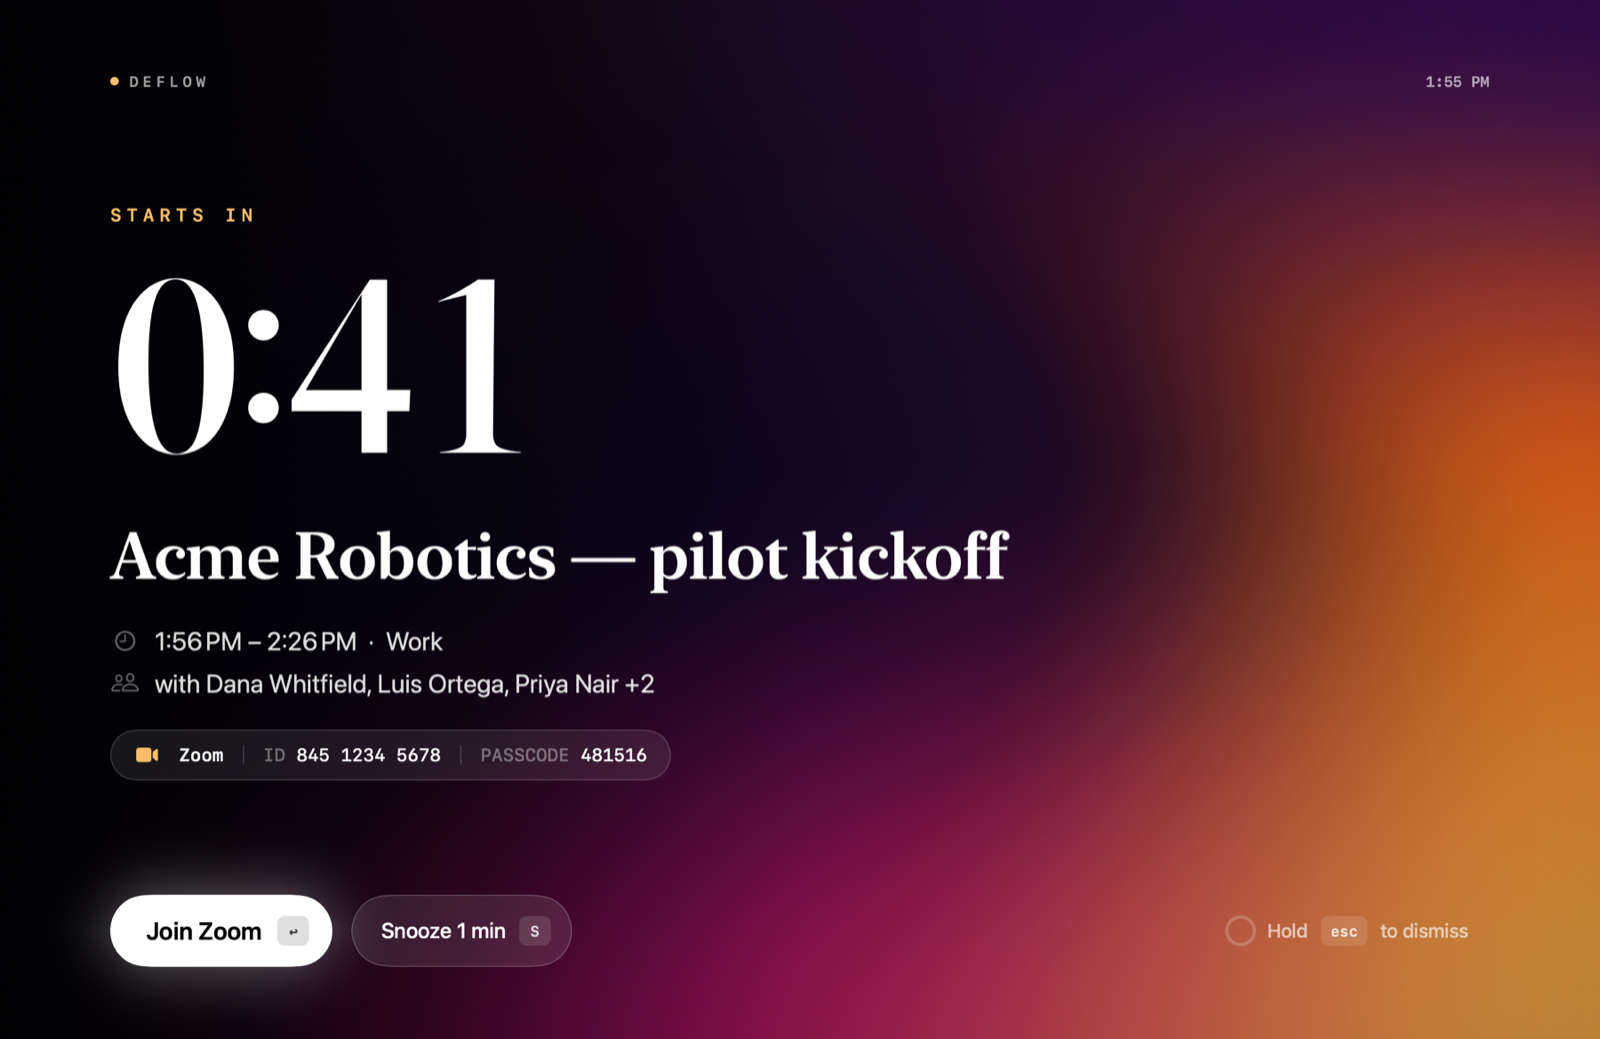
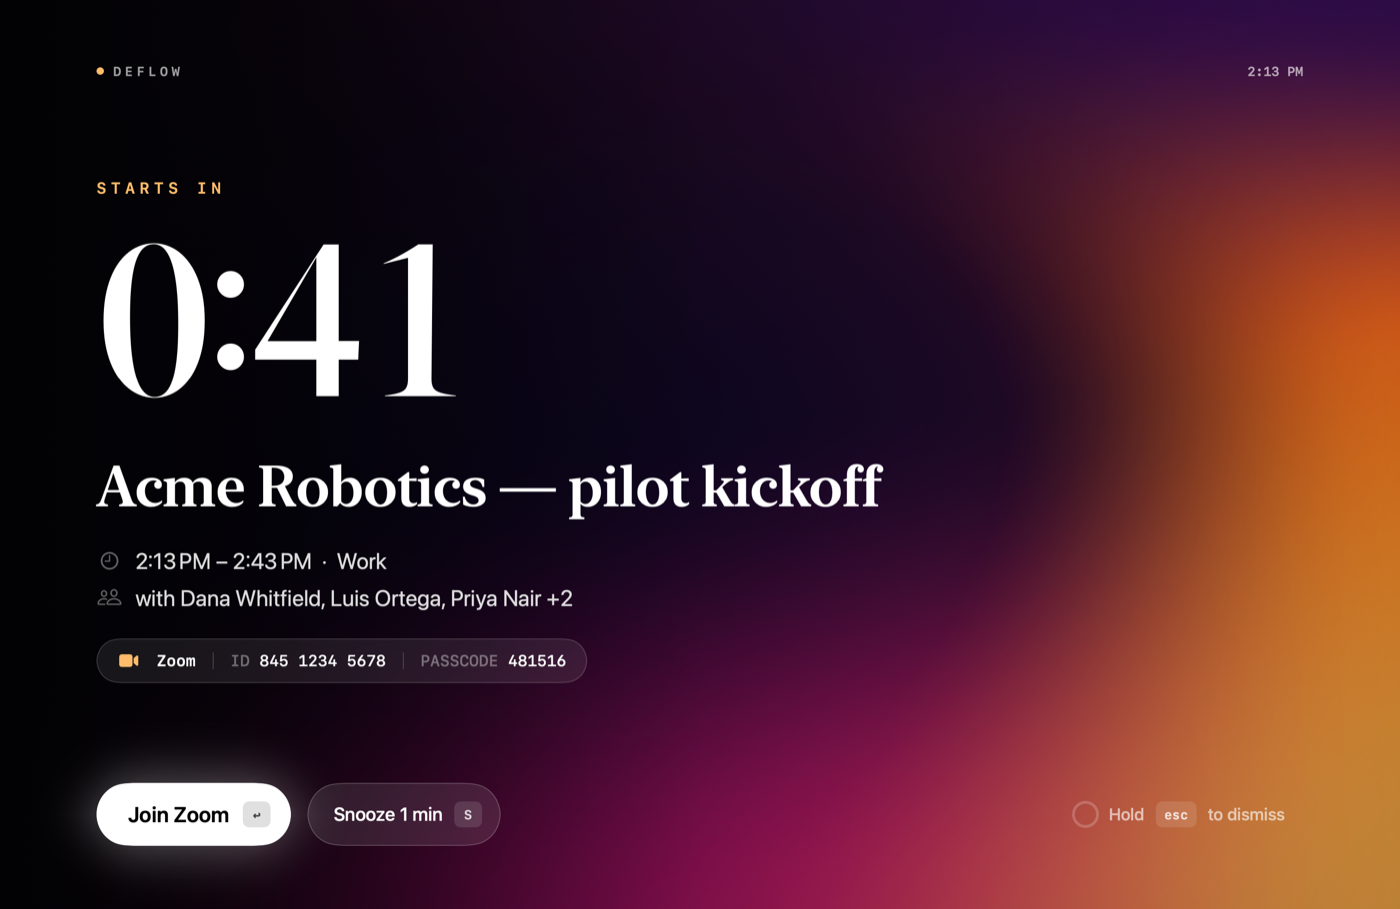
Polish the repo: MIT license, animated README, CI (#1)
* Add MIT license

* Polish the repo: animated README, CI, frame renderer

- README: download button, badges, animated takeover demo, before/after
  screenshots, menu walkthrough, FAQ.
- CI workflow running swift build and swift test on macOS 15.
- --snapshot-frames renders the takeover sequence used for the README GIF.

---------

diff --git a/Sources/Deflow/TakeoverView.swift b/Sources/Deflow/TakeoverView.swift
@@ -22,7 +22,7 @@ struct TakeoverView: View {
             GeometryReader { geo in
                 let s = max(0.6, min(geo.size.width / 1512, 1.7))
                 ZStack {
-                    AuroraBackground(late: late)
+                    AuroraBackground(late: late, time: model.fixedNow?.timeIntervalSinceReferenceDate.truncatingRemainder(dividingBy: 3600), heat: model.fixedHeat)
                     LinearGradient(colors: [.black.opacity(0.62), .black.opacity(0.15), .clear],
                                    startPoint: .leading, endPoint: .trailing)
                     VStack(alignment: .leading, spacing: 0) {
@@ -242,10 +242,13 @@ private struct Keycap: View {
 /// Slow-drifting ember mesh: dark where the text sits, heat pooling on the right. Runs hotter once late.
 struct AuroraBackground: View {
     var late: Bool
+    /// Fixed animation clock and warmth (0 calm … 1 late) for frame-by-frame renders.
+    var time: Double?
+    var heat: Double?
 
     var body: some View {
         TimelineView(.animation(minimumInterval: 1.0 / 30)) { ctx in
-            let t = Float(ctx.date.timeIntervalSinceReferenceDate.truncatingRemainder(dividingBy: 3600))
+            let t = Float(time ?? ctx.date.timeIntervalSinceReferenceDate.truncatingRemainder(dividingBy: 3600))
             MeshGradient(width: 3, height: 3, points: [
                 [0, 0], [0.5 + 0.10 * sin(t * 0.31), 0], [1, 0],
                 [0, 0.5 + 0.08 * cos(t * 0.23)],
@@ -261,12 +264,16 @@ struct AuroraBackground: View {
     }
 
     private var palette: [Color] {
+        let h = heat ?? (late ? 1 : 0)
+        func mix(_ a: (Double, Double, Double), _ b: (Double, Double, Double)) -> Color {
+            Color(red: a.0 + (b.0 - a.0) * h, green: a.1 + (b.1 - a.1) * h, blue: a.2 + (b.2 - a.2) * h)
+        }
         let ink = Color(red: 0.03, green: 0.02, blue: 0.05)
         let plum = Color(red: 0.13, green: 0.04, blue: 0.16)
         let violet = Color(red: 0.24, green: 0.06, blue: 0.36)
-        let magenta = late ? Color(red: 0.82, green: 0.08, blue: 0.22) : Color(red: 0.70, green: 0.10, blue: 0.38)
-        let ember = late ? Color(red: 1.0, green: 0.24, blue: 0.10) : Color(red: 1.0, green: 0.45, blue: 0.12)
-        let glow = late ? Color(red: 1.0, green: 0.48, blue: 0.20) : Color(red: 1.0, green: 0.68, blue: 0.28)
+        let magenta = mix((0.70, 0.10, 0.38), (0.82, 0.08, 0.22))
+        let ember = mix((1.0, 0.45, 0.12), (1.0, 0.24, 0.10))
+        let glow = mix((1.0, 0.68, 0.28), (1.0, 0.48, 0.20))
         return [
             ink, plum, violet,
             ink, plum, ember,

diff --git a/Sources/Deflow/DeflowApp.swift b/Sources/Deflow/DeflowApp.swift
@@ -59,6 +59,10 @@ final class AppDelegate: NSObject, NSApplicationDelegate {
         if let i = args.firstIndex(of: "--render-dmg-bg"), args.indices.contains(i + 1) {
             Self.write(DMGBackgroundView(), to: args[i + 1], scale: args.contains("--2x") ? 2 : 1)
         }
+        // `--snapshot-frames dir` renders an 8-second takeover sequence (for the README animation).
+        if let i = args.firstIndex(of: "--snapshot-frames"), args.indices.contains(i + 1) {
+            Self.frames(to: args[i + 1])
+        }
         // `--snapshot-menu out.png` renders the menu panel with sample data and exits.
         if let i = args.firstIndex(of: "--snapshot-menu"), args.indices.contains(i + 1) {
             let monitor = CalendarMonitor()
@@ -75,6 +79,28 @@ final class AppDelegate: NSObject, NSApplicationDelegate {
         model.animatesIn = false
         model.fixedNow = Date()
         write(TakeoverView(model: model).frame(width: 1512, height: 982), to: path)
+    }
+
+    /// 10 fps from 4s before the start to 4s after, warming up as the meeting begins.
+    @MainActor
+    private static func frames(to dir: String) -> Never {
+        let base = Date()
+        let model = TakeoverModel(event: .demo(startingIn: 4.999))
+        model.animatesIn = false
+        for i in 0..<80 {
+            let now = base.addingTimeInterval(Double(i) / 10)
+            let sinceStart = now.timeIntervalSince(model.event.start)
+            let x = min(max((sinceStart + 0.2) / 1.6, 0), 1)
+            model.fixedNow = now
+            model.fixedHeat = x * x * (3 - 2 * x)
+            let renderer = ImageRenderer(content: TakeoverView(model: model).frame(width: 1200, height: 750))
+            renderer.scale = 1
+            guard let tiff = renderer.nsImage?.tiffRepresentation,
+                  let png = NSBitmapImageRep(data: tiff)?.representation(using: .png, properties: [:]),
+                  (try? png.write(to: URL(fileURLWithPath: dir).appendingPathComponent(String(format: "f%03d.png", i)))) != nil
+            else { exit(1) }
+        }
+        exit(0)
     }
 
     @MainActor

diff --git a/Sources/Deflow/TakeoverController.swift b/Sources/Deflow/TakeoverController.swift
@@ -22,6 +22,7 @@ final class TakeoverModel: ObservableObject {
     /// Off for static renders (snapshots), where onAppear animations never run.
     var animatesIn = true
     var fixedNow: Date?
+    var fixedHeat: Double?
 
     var onPrimary: () -> Void = {}
     var onSnooze: () -> Void = {}

diff --git a/README.md b/README.md
@@ -1,54 +1,131 @@
-<p align="center"><img src="docs/icon.png" width="128" alt="Deflow icon"></p>
-<h1 align="center">Deflow</h1>
-<p align="center"><b>Never miss the meeting.</b><br>
-A macOS menu bar app that takes over your whole screen when a Google Calendar meeting starts.</p>
+<p align="center"><img src="docs/icon.png" width="120" alt="Deflow icon"></p>
 
-![Deflow taking over the screen 41 seconds before a meeting](docs/takeover.png)
+<h1 align="center">Deflow</h1>
+
+<p align="center">
+  <b>Never miss the meeting.</b><br>
+  A macOS menu bar app that takes over your entire screen when a Google Calendar meeting starts.
+</p>
+
+<p align="center">
+  <a href="https://github.com/ArchAstro/deflow/releases/latest/download/Deflow.dmg"><img src="https://img.shields.io/badge/Download_for_macOS-Deflow.dmg-ff7a1f?style=for-the-badge&logo=apple&logoColor=white" alt="Download Deflow for macOS"></a>
+</p>
+
+<p align="center">
+  <a href="https://github.com/ArchAstro/deflow/releases/latest"><img src="https://img.shields.io/github/v/release/ArchAstro/deflow?color=b21a5c&label=release" alt="Latest release"></a>
+  <a href="https://github.com/ArchAstro/deflow/actions/workflows/ci.yml"><img src="https://github.com/ArchAstro/deflow/actions/workflows/ci.yml/badge.svg" alt="CI"></a>
+  <img src="https://img.shields.io/badge/macOS-15%2B-1d1d1f" alt="macOS 15 or later">
+  <img src="https://img.shields.io/badge/Apple-notarized-1d1d1f?logo=apple" alt="Notarized by Apple">
+  <a href="LICENSE"><img src="https://img.shields.io/badge/license-MIT-1d1d1f" alt="MIT license"></a>
+</p>
+
+<p align="center"><img src="docs/takeover.gif" width="900" alt="Deflow counting down to a meeting, then turning red once it has started"></p>
 
 ## Why
 
-Desktop notifications are easy to miss when you are deep in flow. Deflow is not: at meeting time it
-covers every display, shows the call details, and stays there until you join, snooze or deliberately
-dismiss it.
+Notifications are easy to miss when you are deep in flow. A banner slides in, you glance past it, and
+twenty minutes later a customer is sitting alone in a Zoom room.
 
-## What it does
+Deflow cannot be glanced past. At meeting time it covers every display and stays there until you join,
+snooze, or deliberately dismiss it.
 
-1. **Watches Google Calendar** (read-only) for the next 24 hours of meetings on calendars you own.
-2. **Takes over every display** 1 minute before the start (0, 2 or 5 minutes are options), above
-   full-screen apps, with the Dock and app switcher disabled.
-3. **Shows what you need**: countdown, title, time, attendees, and the Zoom / Meet / Teams / Webex link
-   with meeting ID and passcode.
-4. **Gives you three ways out**:
+## How it works
 
-   | Key | Action |
+1. **It watches your Google Calendar**, read-only, for the next 24 hours.
+2. **One minute before a meeting, it takes over.** Every display, above full-screen apps, with the Dock
+   and app switcher disabled.
+3. **Everything you need is on screen**: countdown, title, time, who is on the call, and the Zoom, Meet,
+   Teams or Webex link with meeting ID and passcode.
+4. **There are only three ways out.**
+
+   | Key | What happens |
    | --- | --- |
-   | `↩` | Join the call (opens the Zoom app directly when installed) |
-   | `S` | Snooze for 1 minute |
-   | hold `esc` | Dismiss (a tap does nothing, so you cannot swat it away by reflex) |
+   | <kbd>↩</kbd> | Joins the call. Zoom opens directly in the app, with no browser hop. |
+   | <kbd>S</kbd> | Snoozes for one minute, then comes back. |
+   | hold <kbd>esc</kbd> | Dismisses. A tap does nothing, so you cannot swat it away by reflex. |
 
-5. **Gets louder when you are late**: the screen shifts from amber to red, the countdown becomes
-   "2:14 ago", and it chimes every 20 seconds.
+5. **It gets louder when you are late.**
 
-It skips all-day events, cancelled events, events you declined, and out-of-office blocks.
+| Before the meeting | After it has started |
+| --- | --- |
+| ![Amber takeover showing "Starts in 0:41"](docs/takeover.png) | ![Red takeover showing "Started 2:14 ago"](docs/takeover-late.png) |
+| Calm amber, counting down. | Red, counting up, chiming every 20 seconds. |
 
-<p align="center"><img src="docs/menu.png" width="360" alt="Deflow menu bar panel"></p>
+## The menu bar
+
+<img src="docs/menu.png" width="330" align="right" alt="Deflow menu bar panel showing the next meeting and settings">
+
+Deflow lives in the menu bar, not the Dock.
+
+- **Up next**: a countdown to your next meeting, with a one-click Join button.
+- **Next 24 hours**: the rest of your agenda at a glance.
+- **Lead time**: take over at the start, or 1, 2 or 5 minutes early.
+- **Chime**: on or off.
+- **Skip solo events**: ignore blocks that have no other people and no call link.
+- **Launch at login**: so it is always watching.
+- **Test takeover**: see exactly what a meeting will look like.
+
+When a meeting is less than an hour away, the countdown also shows right in the menu bar.
+
+<br clear="right">
 
 ## Install
 
-1. Download `Deflow.dmg` from [Releases](../../releases) and drag Deflow to Applications.
-2. Open Deflow. It lives in the menu bar, not the Dock.
-3. Click the menu bar icon, then **Sign in with Google**, and approve read-only calendar access.
-4. Click **Test takeover** to see what a meeting will look like.
+1. **[Download Deflow.dmg](https://github.com/ArchAstro/deflow/releases/latest/download/Deflow.dmg)** and
+   drag Deflow to Applications.
+2. Open Deflow, click its menu bar icon, and choose **Sign in with Google**.
+3. Approve read-only calendar access.
+4. Click **Test takeover** to try it.
 
-Requires macOS 15 or later.
+Requires macOS 15 or later. The app is signed with a Developer ID and notarized by Apple.
 
+> [!NOTE]
 > Google has not verified this app yet, so sign-in shows a "Google hasn't verified this app" screen.
-> Choose **Advanced**, then **Go to Deflow**. Deflow only requests read-only calendar access.
+> Choose **Advanced**, then **Go to Deflow**. The only permission requested is read-only calendar access.
 
 ## Privacy
 
-Deflow talks only to Google, directly from your Mac. There is no Deflow server, no analytics and no
-account. See [PRIVACY.md](PRIVACY.md).
+- Deflow talks only to Google, directly from your Mac.
+- There is no Deflow server, no account, no analytics.
+- Access is read-only: Deflow cannot create, change or delete anything.
+- The app ships no client secret; your sign-in token stays in your macOS Keychain.
+
+Full details are in [PRIVACY.md](PRIVACY.md).
+
+## Questions
+
+<details>
+<summary><b>Which events trigger a takeover?</b></summary>
+
+Timed events on calendars you own and have ticked in Google Calendar. All-day events, cancelled events,
+events you declined, out-of-office blocks and working-location entries are skipped. Calendars you only
+subscribe to, such as a coworker's, never trigger one.
+</details>
+
+<details>
+<summary><b>What if my Mac was asleep when the meeting started?</b></summary>
+
+Deflow checks again on wake and still takes over for up to 10 minutes after the start time.
+</details>
+
+<details>
+<summary><b>What if I get stuck behind the takeover?</b></summary>
+
+Hold <kbd>esc</kbd> for a little over a second. The takeover also removes itself when the meeting ends.
+</details>
+
+<details>
+<summary><b>Does it work with several monitors?</b></summary>
+
+Yes. Every connected display is covered.
+</details>
+
+<details>
+<summary><b>How do I remove it?</b></summary>
+
+Choose **Disconnect** in the menu, quit, and delete the app. You can also revoke access at
+<a href="https://myaccount.google.com/permissions">myaccount.google.com/permissions</a>.
+</details>
 
 ## Build from source
 
@@ -59,8 +136,6 @@ Needs Xcode 16 or later.
 swift test                        # unit tests
 ./scripts/make-dmg.sh             # Developer ID signed DMG (set NOTARY_PROFILE to notarize)
 ```
-
-How it fits together:
 
 ```
 Google Calendar API ──60s poll──▶ CalendarMonitor ──▶ TakeoverController ──▶ Join / Snooze / Dismiss
@@ -78,3 +153,7 @@ Google Calendar API ──60s poll──▶ CalendarMonitor ──▶ TakeoverCo
 
 The Google OAuth client ID in `GoogleAuth.swift` is a public identifier for an installed app. It has no
 client secret; sign-in uses PKCE.
+
+## License
+
+[MIT](LICENSE)
